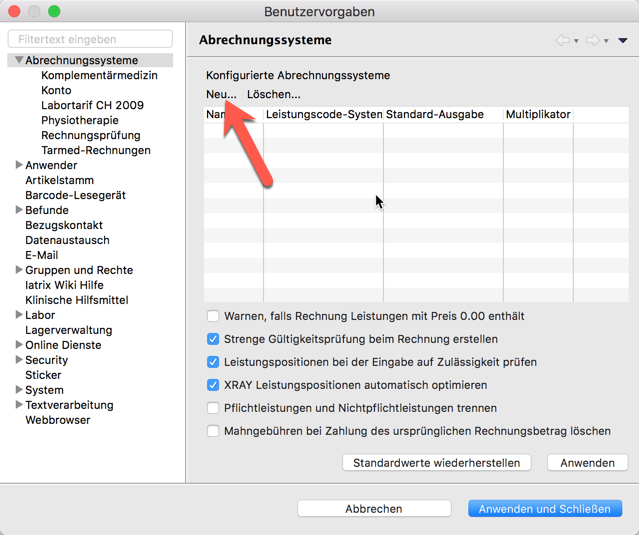
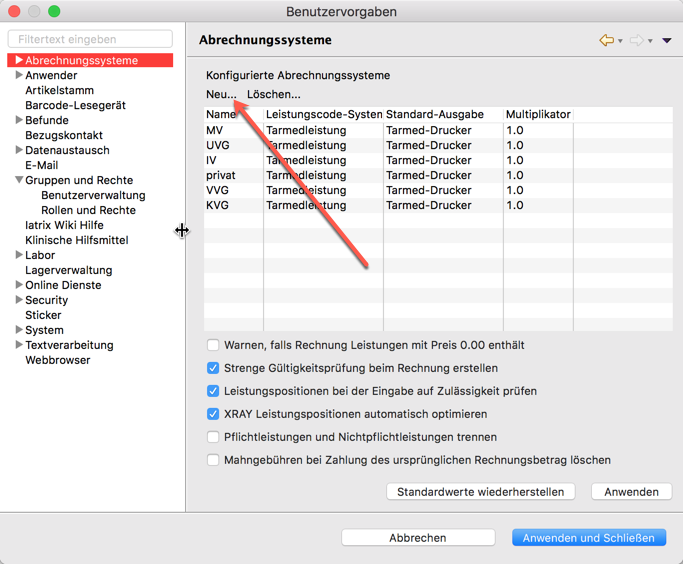
doc

Changed region(s): [[0.0, 0.0, 1.0, 0.9869], [0.0, 0.0, 0.0297, 0.0598], [0.0595, 0.0, 0.0892, 0.0299]]

diff --git a/appserver/site/public/doc/elexis.md b/appserver/site/public/doc/elexis.md
@@ -4,6 +4,17 @@ Leider kann Elexis-OOB (noch) nicht alles für Sie erledigen, was für eine komp
 
 Eine ausführlichere Anleitung dessen, was Sie nach der Installation von Server und Clients noch erledigen müssen, finden Sie bei [elexis.info](https://wiki.elexis.info/Installation_Elexis_3.x_OpenSource). Hier nur ein Schnelldurchgang, damit Sie gleich loslegen können.
 
+## Benötigte Features nachinstallieren
+
+Wählen Sie im Elexis-Hauptmenü den Punkt *Hilfe->Neue Software installieren*. Sie können eine der vordefinierten Sites auswählen, oder mit *Hinzufügen* beispielsweise eine oder mehrere der mit Elexis-OOB installierten Software-Sites hinzufügen.
+
+![](/images/elx_config_02.png)
+
+Wählen Sie für jetzt die Site "elexis-3-base" und markieren Sie dort unter "Basispakete" das Paket "Elexis Swiss OpenSource Feature", und unter "Dokumentenverwaltung" das "Omnivore" Feature. Achten Sie darauf, dass Sie das Richtige erwischen, vgl. obiges Bild. (Keine Angst, Sie können später jederzeit weitere Features nachinstallieren, jetzt machen wir nur das Minumum, was zum Einrichten notwendig ist). 
+
+Klicken Sie dann auf Weiter" und dann auf "Fertigstellen". Sie werden eine Sicherheitswarnung erhalten, die Sie mit "Trotzdem installieren" beantworten müssen. Danach sollten Sie Elexis neu starten.
+
+
 ## Mandanten und Anwender erstellen
 
 Starten Sie Elexis und wählen Sie im Hauptmenü *Datei->Einstellungen*. Dort finden Sie folgende Seite:
@@ -14,25 +25,19 @@ Ernennen Sie Ihren vorhin erstellten Hauptmandanten zum "verantwortlichen" Arzt 
 
 Klicken Sie dann "Anwenden und Schließen".
 
-## Benötigte Features nachinstallieren
-
-Wählen Sie im Elexis-Hauptmenü den Punkt *Hilfe->Neue Software installieren*. Sie können eine der vordefinierten Sites auswählen, oder mit *Hinzufügen* beispielsweise eine oder mehrere der mit Elexis-OOB installierten Software-Sites hinzufügen.
-
-![](/images/elx_config_02.png)
-
-Wählen Sie für jetzt die Site "elexis-3-base" und markieren Sie dort unter "Basispakete" das Paket "Elexis Swiss OpenSource Feature" (Keine Angst, Sie können später jederzeit weitere Features nachinstallieren, jetzt machen wir nur das Minumum, was zum Einrichten notwendig ist). 
-
-Klicken Sie dann auf Weiter" und dann auf "Fertigstellen". Sie werden eine Sicherheitswarnung erhalten, die Sie mit "Trotzdem installieren" beantworten müssen. Danach sollten Sie Elexis neu starten.
-
 ## Abrechnungssystem konfigurieren
 
 Öffnen Sie jetzt wieder den *Datei-Einstellungen* Dialog und suchen Sie diesmal *Abrechnungssysteme* auf. 
 
 ![](/images/elx_config_03.png)
 
-Klicken Sie oben links auf neu und erstellen Sie zunächst ein KVG Abrechnungssystem:
+(Wenn Sie alles in der Reihenfolge wie hier gezeigt gemacht haben, sollten die in de Schweiz gebräuchlichen Abrechnubgssysteme jetzt schon wie hier gezeigt vorkonfiguriert sein. Ansonsten können Sie mit Klick auf "Neu..." benötigte Abrechnungssysteme selber erstellen.)
+
+Doppelklicken Sie auf das "KVG-Abrechnungssystem", resp. erstellen Sie ein solches:
 
 ![](/images/elx_config_04.png)
+
+Ergänzen Sie die Details wie hier gezeigt.
 
 **Wichtig!**: Für den Multiplikator müssen Sie den für Ihren Kanton gültigen Taxpunktwert einsetzen!
 

diff --git a/appserver/site/public/doc/index.md b/appserver/site/public/doc/index.md
@@ -2,7 +2,7 @@
 
 ## Was es ist
 
-Elexis-OOB ist eine komplette [Elexis](http://elexis.info)-Umgebung bestehend aus:
+Elexis-OOB ist eine komplette [Elexis](http://elexis.ch)-Umgebung bestehend aus:
 
 * MariaDB Server und Datenbank.
 * Elexis-Clientprogrammen für Windows, macOS und Linux.
@@ -10,11 +10,15 @@ Elexis-OOB ist eine komplette [Elexis](http://elexis.info)-Umgebung bestehend au
 * Lucinda (Dokumentenverwaltung)
 * PACS (Bildverwaltung)
 
-Sowie einer Web-Oberfläche zur initialien Einrichtung des Systems, sowie Konfiguration, Erstellung und Zurückspielen von Backups.
+Sowie einer Web-Oberfläche zur initialen Einrichtung des Systems, sowie Konfiguration, Erstellung und Zurückspielen von Backups.
 
-Das Ganze ist als Docker - Komposition entworfen. Dadurch ist es (ziemlich) systemunabhängig und ausserordentlich leicht einzurichten. Im Prinzip genügt ein einziger docker-compose Befehl, um das System audzusetzen, und danach einige Schritte für die Konfiguration. Damit ist Elexis-OOB ein System, mit dem Sie eine komplexe Arztpraxis-Software auf einfache Weise fast überall installieren können. Sei es als Test-Installation, sei es als produktive Praxissoftware. Sie können auch relativ leicht mehrere Instanzen parallel laufen lassen.
+Das Ganze ist als Docker - Komposition entworfen. Dadurch ist es (ziemlich) systemunabhängig und ausserordentlich leicht einzurichten. Im Prinzip genügt ein einziger docker-compose Befehl, um das System aufzusetzen, und danach einige Schritte für die Konfiguration. Damit ist Elexis-OOB ein System, mit dem Sie eine komplexe Arztpraxis-Software auf einfache Weise fast überall installieren können. Sei es als Test-Installation, sei es als produktive Praxissoftware. Sie können auch relativ leicht mehrere Instanzen parallel laufen lassen (Wobei dann natürlich gesteigerte Vorsicht angezeigt ist, um die produktive Instanz nicht mit einer Testinstanz zu verwechseln, und so Daten zu verlieren).
 
 Diese Anleitung führt sie durch den Installations- und Konfigurationsvorgang.
+
+Es sei an dieser Stelle ausdrücklich darauf hingewiesen, dass eine Arztpraxis-Software mit besonders schützenswerten Daten arbeitet. Die Einfachheit der Installation darf Sie nicht zu leichtfertigem Umgang mit diesen Daten verleiten. Sie dürfen dieses System mit echten Daten nur in einem abgesicherten Netzwerk benutzen. Wenn Sie nicht sicher sind, wie Sie Ihr Netzwerk absichern können, müssen Sie professionelle Unterstützung einkaufen. Es ist ausserdem sehr empfehlenswert, die produktive Version auf einer verschlüsselten Partition des Servers zu installieren.
+
+Falls Sie (erst mal) nur mit Testdaten arbeiten wollen, spricht aber nichts dagegen, ohne grosse Vorsichtsmassnahmen einfach mal loszulegen und das System nach Herzenslust auszuprobieren!
 
 ## Was Sie benötigen
 

diff --git a/appserver/site/public/doc/elexis_how2.md b/appserver/site/public/doc/elexis_how2.md
@@ -1,8 +1,8 @@
 # Elexis benutzen
 
-Wie jedes Arztpraxisprogramm hat auch Elexis eine gewisse Komplexität. Anders als etwa ein Textprogramm, muss eine Arztpraxis-Software ganz unterschiedliche Aufgaben erfüllen können, was die zu lernenden Vorgänge leider deutlich erhöht. Elexis-OOB bietet Ihnen eine einfache Möglichkeit, "schmerzlos" zu testen: Wenn etwas schief geht, haben Sie das System ja in wenigen Minuten wieder neu aufgesetzt. Und Sie können problemlos mehrere Elexis-OOB Instanzen nutzen, um etwa neue Plugins erst mal unabhängig vom eigentlichen Praxissystem zu testen.
+Wie jedes Arztpraxisprogramm hat auch Elexis eine gewisse Komplexität. Anders als etwa ein Textprogramm, muss eine Arztpraxis-Software ganz unterschiedliche Aufgaben erfüllen können, was die Anzahl der zu lernenden Vorgänge leider deutlich erhöht. Elexis-OOB bietet Ihnen eine einfache Möglichkeit, "schmerzlos" zu testen: Wenn etwas schief geht, haben Sie das System ja in wenigen Minuten wieder neu aufgesetzt. Und Sie können problemlos mehrere Elexis-OOB Instanzen nutzen, um etwa neue Plugins erst mal unabhängig vom eigentlichen Praxissystem zu testen.
 
-Die Firma [Medelexis AG](https://www.medelexis.ch) bietet professionelle Unterstützung von Elexis und führt auch regelmässig Usertreffen und andere Veranstaltungen durch, bei denen Sie Kontakt mir Elexis und Elexis-Anwendern knüpfen können.
+Die Firma [Medelexis AG](https://www.medelexis.ch) bietet professionelle Unterstützung von Elexis und führt auch regelmässig Usertreffen und andere Veranstaltungen durch, bei denen Sie Kontakte mit Elexis und Elexis-Anwendern knüpfen können.
 
 Es existiert auch eine Menge Dokumentation zu Elexis, die allerdings leider teilweise bereit etwas veraltet und nicht überall gut strukturiert ist. Dank der Arbeit von Niklaus Giger finden Sie aber auf [Elexis.info](http://www.elexis.info) eine umfangreiche und immer wieder aktualisierte Sammlung von Dokumenten aller Art.
 
@@ -10,9 +10,9 @@ Doch nun lade ich Sie ein, einfach mal ins kalte Wasser zu springen.
 
 ## Eine Patientin erstellen.
 
-Stellen wir uns mal vor, eine bisher unbekannte Patientin verlangt telefonisch einen Termin. Wir haben noch keinerlei Angaben von ihr.
+Stellen wir uns mal vor, eine bisher unbekannte Patientin wünscht telefonisch einen Termin. Wir haben noch keinerlei Angaben von ihr.
 
-Tippen Sie im Elexis Hauptfenster links mindestens den Namen und vielleicht noch dne Vornamen ein.
+Tippen Sie im Elexis Hauptfenster links mindestens den Namen und vielleicht noch den Vornamen ein.
 
 ![](/images/elx_use_01.png)
 
